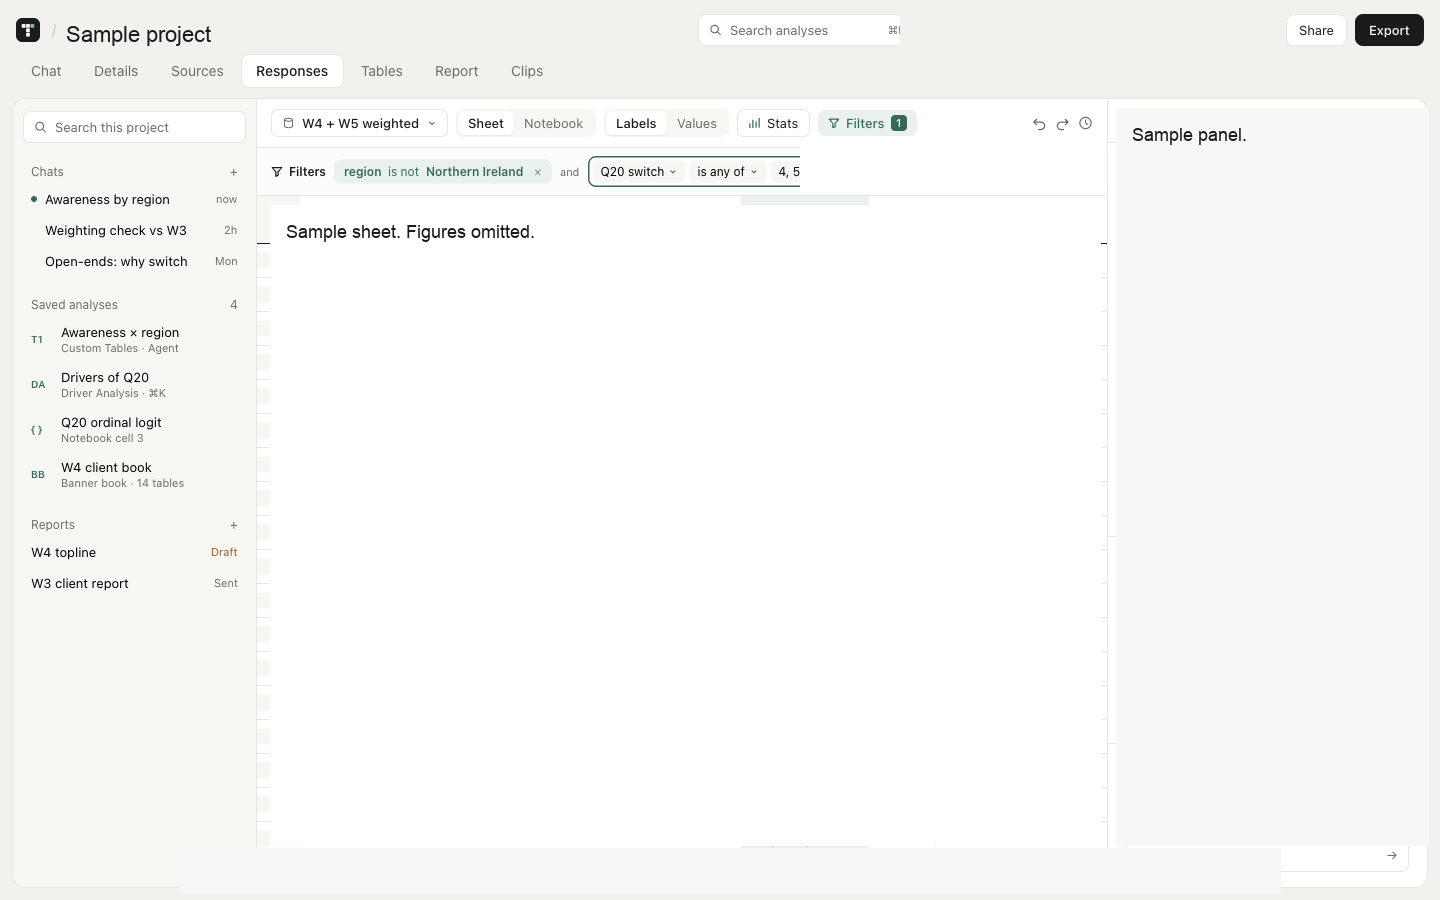
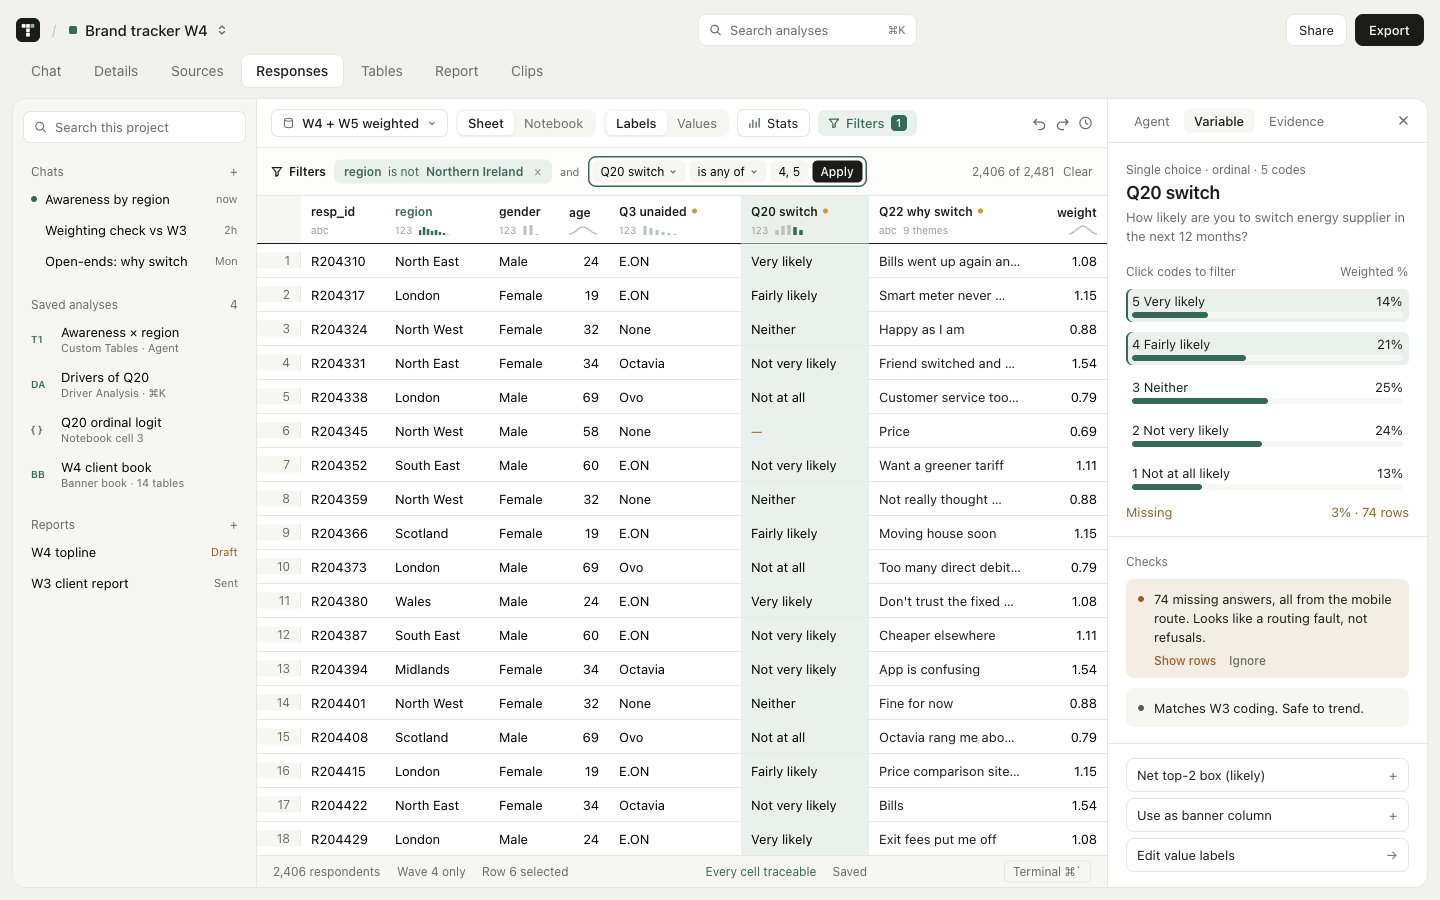
Restore the product screens and describe what Tensr does.
Sample tables stay. Only the Prolific fielding chip is covered.

diff --git a/components/paper/product.tsx b/components/paper/product.tsx
@@ -14,11 +14,11 @@ const analyses = [
 const details = [
   ['Analysis report', 'Checked, then explained', 'A plain-language data quality note, and the test the method prints. Analysis pages include an APA-style write-up.'],
   ['Exports', 'Out in the shapes that exist', 'Banners go to Excel or PowerPoint. A write-up goes to CSV, Markdown, or the browser print dialog. A .sav comes back with an .sps weight file.'],
-  ['Weights', 'The file stays put', 'Rake to targets. A weighted table does not change the dataset, and a save keeps the earlier version.'],
+  ['Weights', 'The file stays put', 'Rake to targets. A weight is saved as a new version, and the file you uploaded stays.'],
   ['Filters', 'On that run', 'A filter used for one analysis stays on that run. Naming two groups keeps a two-group comparison.'],
   ['Notebook', 'R, on the open file', 'R cells load the open dataset. An R script is there for the analyses that have one.'],
-  ['Collaboration', 'Teams', 'Teams includes shared workspaces and presence. SAML SSO is not available.'],
-  ['Plugins', 'Not a store', 'This version does not charge for a toolkit, and it does not add a method that is not in the product.'],
+  ['Collaboration', 'Teams', 'Teams includes shared workspaces and presence. Sign in with an email code. A workspace has an owner and members.'],
+  ['Plugins', 'In the product', 'Plugins run inside Tensr, with no network access.'],
 ] as const;
 
 function PaperScreen({ src, caption }: { src: string; caption: string }) {
@@ -36,7 +36,7 @@ function WorkspaceFrame() {
       <div className="overflow-hidden rounded-t-[12px] bg-[#F1F1EE] shadow-[0_24px_60px_#14473A40]">
         <img src="/paper/product/5-tables.png" alt="" className="block w-full" />
       </div>
-      <div className="flex justify-between bg-[#14473A] px-2 py-4.5 text-[17px] leading-5.5 text-[#F9F4EB]">
+      <div className="flex flex-wrap justify-between gap-2 bg-[#14473A] px-2 py-4.5 text-[17px] leading-5.5 text-[#F9F4EB]">
         {['Sources', 'Responses', 'Chat agent', 'Tables', 'Report', 'Traceability', '83 analyses'].map((item, index) => (
           <span key={item} className="flex flex-1 items-center justify-center gap-4">
             {index > 0 ? <span className="text-[#BFD3C8]">·</span> : null}
@@ -92,14 +92,14 @@ export function ProductPage() {
         <div className="flex items-end justify-between gap-10">
           <h2 className="w-205 shrink-0 text-[56px] leading-14.5 tracking-[-0.04em]">Every wave, every market, one dataset you can trust</h2>
           <p className="w-105 shrink-0 text-[18px] leading-6.75 text-[#3D6A5E]">
-            Drop in the file you already have. Live Prolific and Qualtrics sync is coming soon. Tensr reads the file. It does not replace the survey tool.
+            Drop in the file you already have. Tensr reads SPSS, Excel, and the rest, and turns them into tables you can send.
           </p>
         </div>
         <FeatureRow
           items={[
             ['Bring data in', '.sav, .dta, CSV, Excel, Triple-S, and Parquet. Labels, missing codes, and measurement levels come across on a .sav.'],
             ['Merge waves', 'Join or stack files. Stack and append find Merge Datasets, and stacking says when those rows are already in the file.'],
-            ['The file stays the file', 'A weight does not change the dataset. A save keeps the earlier version.'],
+            ['The file stays the file', 'A weight, a recode, or a merge saves a new version. The file you uploaded stays.'],
           ]}
         />
       </section>
@@ -121,7 +121,7 @@ export function ProductPage() {
         />
         <PaperScreen
           src="/paper/product/4a-responses.png"
-          caption="Responses layout. The Prolific chip and the cell figures are not on this export. A real capture replaces it later."
+          caption="Responses, in a sample project."
         />
       </section>
 
@@ -130,12 +130,12 @@ export function ProductPage() {
         <div className="flex items-end justify-between gap-10">
           <h2 className="w-205 shrink-0 text-[56px] leading-14.5 tracking-[-0.04em]">Haiku codes the answers. You can edit the themes.</h2>
           <p className="w-105 shrink-0 text-[18px] leading-6.75 text-[#3D6A5E]">
-            Haiku proposes a code frame from a sample of the answers, then codes every answer with a confidence score. A score under 0.6, or no code, goes to the review queue. Keyword coding is the fallback, and a schema-only study uses it automatically. Themes tabulate as a weighted multi-response, with significance letters, and a cell opens the verbatims. The layout below has the result figures taken off.
+            Haiku proposes a code frame from a sample of the answers, then codes every answer with a confidence score. A score under 0.6, or no code, goes to the review queue for you to edit. Keyword coding is the fallback. In private mode, open ends are coded with keywords. Themes tabulate as a weighted multi-response, with significance letters, and a cell opens the verbatims.
           </p>
         </div>
         <PaperScreen
           src="/paper/product/4g-themes.png"
-          caption="Themes layout. Percentages, bases, and quotes are omitted."
+          caption="Themes, in a sample project."
         />
       </section>
 
@@ -144,12 +144,12 @@ export function ProductPage() {
         <div className="flex items-end justify-between gap-10">
           <h2 className="w-205 shrink-0 text-[56px] leading-14.5 tracking-[-0.04em]">An analyst that plans first, asks when it is not sure, and shows its working</h2>
           <p className="w-105 shrink-0 text-[18px] leading-6.75 text-[#3D6A5E]">
-            Type the question. Ask reads and does not change the file. Plan lays out the steps for you to approve. Agent runs them and pauses when a choice is yours.
+            Type the question. Ask answers from the data. Plan lays out the steps for you to approve. Agent runs them and pauses when a choice is yours.
           </p>
         </div>
         <div className="flex gap-2">
           {[
-            ['Mode 1', 'Ask', 'Quick answers about the data. Reads, and does not change anything.', false],
+            ['Mode 1', 'Ask', 'Quick answers about the data.', false],
             ['Mode 2', 'Plan', 'Lays out the steps first. You approve or edit before anything runs.', false],
             ['Mode 3', 'Agent', 'Merges, weights, and builds the book, pausing when a choice is yours.', true],
             ['Every mode', 'Shown', 'Each step lists the weight, base, and test it used, so you can check it.', false],
@@ -175,7 +175,7 @@ export function ProductPage() {
         </div>
         <PaperScreen
           src="/paper/product/5-tables.png"
-          caption="Tables layout. Column percents and the side panel are omitted."
+          caption="Tables, in a sample project."
         />
       </section>
 
@@ -184,7 +184,7 @@ export function ProductPage() {
         <div className="flex items-end justify-between gap-10">
           <h2 className="w-205 shrink-0 text-[56px] leading-14.5 tracking-[-0.04em]">The book you signed off, ready to send</h2>
           <p className="w-105 shrink-0 text-[18px] leading-6.75 text-[#3D6A5E]">
-            Excel and PowerPoint for the banner. CSV, Markdown, or print for the analysis write-up. There is no live deck that updates while fieldwork is still open.
+            Excel and PowerPoint for the banner. CSV, Markdown, or print for the analysis write-up. You export the banner you signed off.
           </p>
         </div>
       </section>
@@ -199,7 +199,7 @@ export function ProductPage() {
         </div>
         <PaperScreen
           src="/paper/product/4c-evidence.png"
-          caption="Evidence layout. The result callout, quotes, and row figures are omitted."
+          caption="Evidence, in a sample project."
         />
       </section>
 
@@ -247,8 +247,8 @@ export function ProductPage() {
           ))}
           <div className="flex w-[calc(25%-6px)] flex-col gap-3.5 bg-[#14473A] px-7 pb-8 pt-7 text-[#F9F4EB]">
             <p className="text-[15px] leading-4.5 opacity-80">Security</p>
-            <h3 className="text-[30px] leading-9 tracking-[-0.02em]">Encrypted, and never for training</h3>
-            <p className="text-[16px] leading-6 opacity-85">AES-256 at rest, HTTPS in transit. Your data is never used to train models.</p>
+            <h3 className="text-[30px] leading-9 tracking-[-0.02em]">Encrypted, in US East</h3>
+            <p className="text-[16px] leading-6 opacity-85">Encrypted at rest with AES-256 and in transit over HTTPS, hosted in AWS US East. Private mode sends the AI only column names and types.</p>
           </div>
         </div>
       </section>
@@ -260,14 +260,9 @@ export function ProductPage() {
             <Link href={APP_LOGIN} className="underline decoration-1 underline-offset-2">Start a 30-day free trial</Link>
             , or send us last wave&apos;s file and we&apos;ll rebuild your tab book in Tensr on the call.
           </p>
-          <div className="flex">
-            <div className="flex h-14 w-90 items-center border border-[#F9F4EB] px-5 opacity-90">
-              <p className="text-[17px] leading-5.5">What&apos;s your work email?</p>
-            </div>
-            <Link href="/demo" className="flex h-14 items-center bg-[#F9F4EB] px-6 text-[17px] leading-5.5 text-[#14473A]">
-              Book a demo →
-            </Link>
-          </div>
+          <Link href="/demo" className="flex h-14 items-center bg-[#F9F4EB] px-6 text-[17px] leading-5.5 text-[#14473A]">
+            Book a demo →
+          </Link>
         </div>
       </section>
     </PaperShell>
